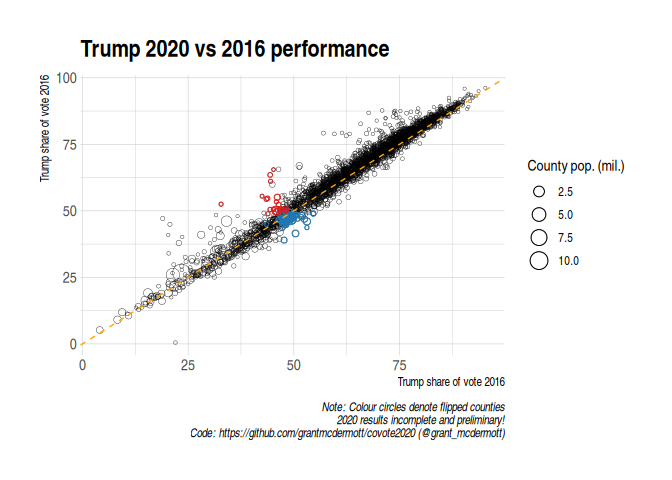
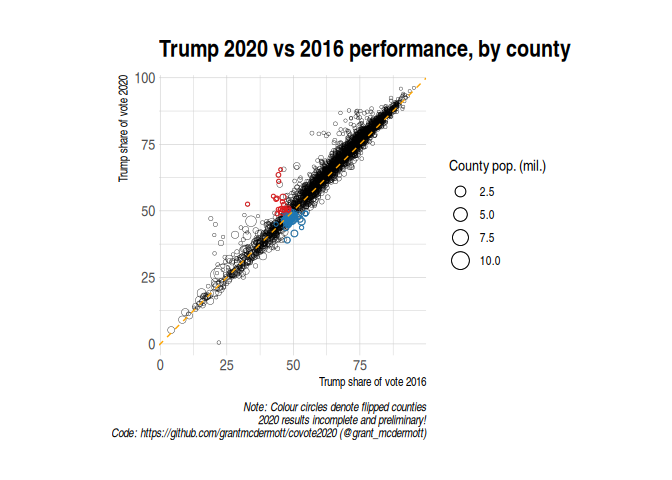
fix labels and aspect ratio on last plot

diff --git a/README.md b/README.md
@@ -12,7 +12,7 @@ focused on the 2016 election). The analysis here is based on preliminary
 and incomplete data, but should become increasingly accurate as vote
 tallies are finalised.
 
-The below scripts were most recently run at **2020-11-05 11:55:08**.
+The below scripts were most recently run at **2020-11-05 12:00:28**.
 
 ### Libraries
 
@@ -187,9 +187,10 @@ Plot time.
         scale_size_continuous(name = 'County pop. (mil.)') +
         scale_colour_manual(values = flip_cols) +
         guides(colour = FALSE) +
-        labs(title = 'Trump 2020 vs 2016 performance',
+        coord_equal() +
+        labs(title = 'Trump 2020 vs 2016 performance, by county',
                  caption = 'Note: Colour circles denote flipped counties\n2020 results incomplete and preliminary!\nCode: https://github.com/grantmcdermott/covote2020 (@grant_mcdermott)',
-                 x = 'Trump share of vote 2016', y = 'Trump share of vote 2016') 
+                 x = 'Trump share of vote 2016', y = 'Trump share of vote 2020') 
     #> Warning: Removed 5 rows containing missing values (geom_point).
 
 ![](README_files/figure-gfm/ecov20_plots-5.png)<!-- -->
